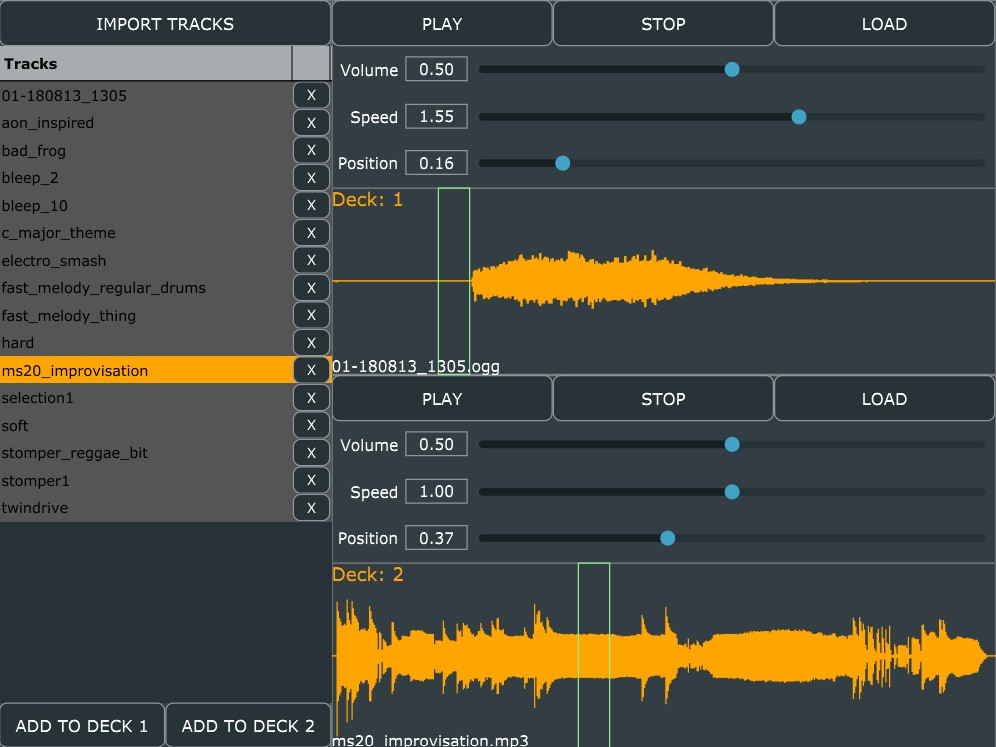
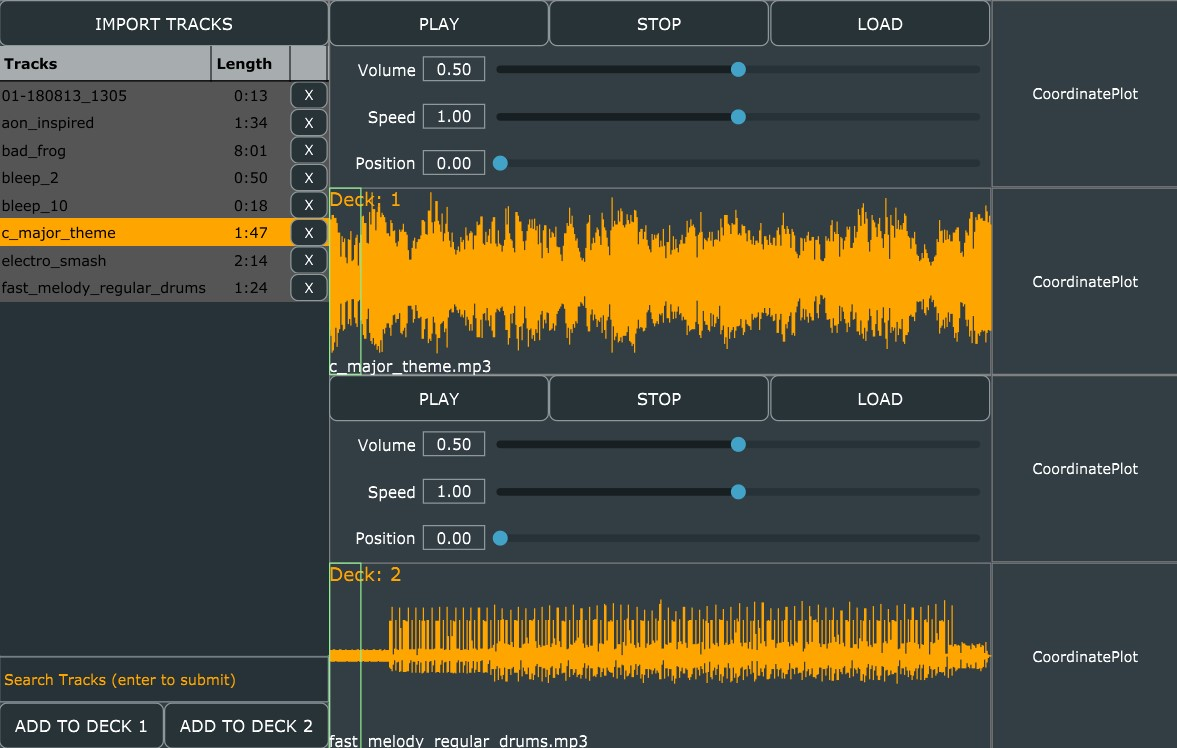
created CoordinatePlot class, added 2 as components to DeckGUI, and reformated UI layout for it

diff --git a/Source/DeckGUI.cpp b/Source/DeckGUI.cpp
@@ -23,24 +23,28 @@ DeckGUI::DeckGUI(int _id,
     // add all components and make visible
     addAndMakeVisible(playButton);
     addAndMakeVisible(stopButton);
+    addAndMakeVisible(loadButton);
     addAndMakeVisible(volSlider);
     addAndMakeVisible(volLabel);
     addAndMakeVisible(speedSlider);
     addAndMakeVisible(speedLabel);
     addAndMakeVisible(posSlider);
     addAndMakeVisible(posLabel);
-    addAndMakeVisible(reverbSlider);
+    //addAndMakeVisible(reverbSlider);
+    addAndMakeVisible(reverbPlot1);
+    addAndMakeVisible(reverbPlot2);
     addAndMakeVisible(waveformDisplay);
-    addAndMakeVisible(loadButton);
 
     // add listeners
     playButton.addListener(this);
     stopButton.addListener(this);
+    loadButton.addListener(this);
     volSlider.addListener(this);
     speedSlider.addListener(this);
     posSlider.addListener(this);
     reverbSlider.addListener(this);
-    loadButton.addListener(this);
+    //reverbPlot1.addListener(this);
+    //reverbPlot2.addListener(this);
 
     //configure volume slider and label
     double volDefaultValue = 0.5;
@@ -85,6 +89,10 @@ DeckGUI::DeckGUI(int _id,
     reverbSlider.setRange(0.0, 1.0);
     reverbSlider.setNumDecimalPlacesToDisplay(2);
 
+    //configure reverb plots
+    //reverbPlot1.setRange(0.0, 1.0);
+    //reverbPlot2.setRange(0.0, 1.0);
+
     startTimer(500);
 }
 
@@ -113,17 +121,20 @@ void DeckGUI::resized()
     // This method is where you should set the bounds of any child
     // components that your component contains..
     auto sliderLeft = getWidth() / 9;
+    auto mainRight = getWidth() - getHeight() / 2;
+    auto plotRight = getWidth() - mainRight; // should == getHeight() / 2
 
     //                   x start, y start, width, height
-    playButton.setBounds(0, 0, getWidth() / 3, getHeight() / 8);
-    stopButton.setBounds(getWidth() / 3, 0, getWidth() / 3, getHeight() / 8);
-    loadButton.setBounds(2 * getWidth() / 3, 0, getWidth() / 3, getHeight() / 8);
-    volSlider.setBounds(sliderLeft, getHeight() / 8, 3 * getWidth() / 3 - sliderLeft, getHeight() / 8);
-    speedSlider.setBounds(sliderLeft, 2 * getHeight() / 8, 3 * getWidth() / 3 - sliderLeft, getHeight() / 8);
-    posSlider.setBounds(sliderLeft, 3 * getHeight() / 8, 3 * getWidth() / 3 - sliderLeft, getHeight() / 8);
-    reverbSlider.setBounds(0, 4 * getHeight() / 8, getWidth(), getHeight() / 8);
-    waveformDisplay.setBounds(0, 5 * getHeight() / 8, getWidth(), 3 * getHeight() / 8);
-    //waveformDisplay.setBounds(0, 4 * getHeight() / 8, 3 * getWidth() / 3, 4 * getHeight() / 8);
+    playButton.setBounds(0, 0, mainRight / 3, getHeight() / 8);
+    stopButton.setBounds(mainRight / 3, 0, mainRight / 3, getHeight() / 8);
+    loadButton.setBounds(2 * mainRight / 3, 0, mainRight / 3, getHeight() / 8);
+    volSlider.setBounds(sliderLeft, getHeight() / 8, mainRight - sliderLeft, getHeight() / 8);
+    speedSlider.setBounds(sliderLeft, 2 * getHeight() / 8, mainRight - sliderLeft, getHeight() / 8);
+    posSlider.setBounds(sliderLeft, 3 * getHeight() / 8, mainRight - sliderLeft, getHeight() / 8);
+    //reverbSlider.setBounds(0, 4 * getHeight() / 8, mainRight, getHeight() / 8);
+    reverbPlot1.setBounds(mainRight, 0, plotRight, getHeight() / 2);
+    reverbPlot2.setBounds(mainRight, getHeight()/2, plotRight, getHeight() / 2);
+    waveformDisplay.setBounds(0, 4 * getHeight() / 8, mainRight, 4 * getHeight() / 8);
 }
 
 void DeckGUI::buttonClicked(juce::Button* button)
@@ -166,11 +177,11 @@ void DeckGUI::sliderValueChanged(juce::Slider* slider)
         DBG("Position slider moved " << slider->getValue());
         player->setPositionRelative(slider->getValue());
     }
-    if (slider == &reverbSlider)
-    {
-        DBG("Reverb slider moved " << slider->getValue());
-        player->setRoomSize(slider->getValue());
-    }
+    //if (slider == &reverbSlider)
+    //{
+    //    DBG("Reverb slider moved " << slider->getValue());
+    //    player->setRoomSize(slider->getValue());
+    //}
 }
 
 bool DeckGUI::isInterestedInFileDrag(const juce::StringArray& files)

diff --git a/Source/MainComponent.cpp b/Source/MainComponent.cpp
@@ -5,7 +5,7 @@ MainComponent::MainComponent()
 {
     // Make sure you set the size of the component after
     // you add any child components.
-    setSize (800, 600);
+    setSize (944, 600);
 
     // Some platforms require permissions to open input channels so request that here
     if (juce::RuntimePermissions::isRequired (juce::RuntimePermissions::recordAudio)
@@ -82,10 +82,16 @@ void MainComponent::resized()
     // If you add any child components, this is where you should
     // update their positions.
 
-    auto columnWidth = getWidth() / 3;
-    auto rowHeight = getHeight() / 2;
+    //playlistComponent.setBounds(0, 0, getWidth() / 3, getHeight());
+    //deckGUI1.setBounds(getWidth() / 3, 0, 2 * getWidth() / 3, getHeight() / 2);
+    //deckGUI2.setBounds(getWidth() / 3, getHeight() / 2, 2 * getWidth() / 3, getHeight() / 2);
+    int columns = 100;
+    auto playlistRight = 28 * getWidth() / columns;
+    playlistComponent.setBounds(0, 0, playlistRight, getHeight());
+    deckGUI1.setBounds(playlistRight, 0, getWidth() - playlistRight, getHeight() / 2);
+    deckGUI2.setBounds(playlistRight, getHeight() / 2, getWidth() - playlistRight, getHeight() / 2);
 
-    playlistComponent.setBounds(0, 0, columnWidth, 2 * rowHeight);
-    deckGUI1.setBounds(columnWidth, 0, 2 * columnWidth, rowHeight);
-    deckGUI2.setBounds(columnWidth, rowHeight, 2 * columnWidth, rowHeight);
+    //getWidth() - getWidth() / columns - getHeight() / 4
+    //deckGUI1.setBounds(playlistRight, 0, getWidth() - playlistRight - getHeight() / 4, getHeight() / 2);
+    //deckGUI2.setBounds(playlistRight, getHeight() / 2, getWidth() - playlistRight - getHeight() / 4, getHeight() / 2);
 }

diff --git a/Source/DeckGUI.h b/Source/DeckGUI.h
@@ -13,7 +13,7 @@
 #include <JuceHeader.h>
 #include "DJAudioPlayer.h"
 #include "WaveformDisplay.h"
-//#include "PlaylistComponent.h"
+#include "CoordinatePlot.h"
 
 //==============================================================================
 /*
@@ -50,6 +50,7 @@ private:
     
     juce::TextButton playButton{ "PLAY" };
     juce::TextButton stopButton{ "STOP" };
+    juce::TextButton loadButton{ "LOAD" };
     juce::Slider volSlider;
     juce::Label volLabel;
     juce::Slider speedSlider;
@@ -57,7 +58,8 @@ private:
     juce::Slider posSlider;
     juce::Label posLabel;
     juce::Slider reverbSlider;
-    juce::TextButton loadButton{ "LOAD" };
+    CoordinatePlot reverbPlot1;
+    CoordinatePlot reverbPlot2;
 
     void loadFile(juce::URL audioURL);
 

diff --git a/Source/PlaylistComponent.cpp b/Source/PlaylistComponent.cpp
@@ -23,8 +23,8 @@ PlaylistComponent::PlaylistComponent(DeckGUI* _deckGUI1,
     // initialise any special settings that your component needs.
 
     // library table configuration
-    library.getHeader().addColumn("Tracks", 1, 171);
-    library.getHeader().addColumn("Length", 2, 65);
+    library.getHeader().addColumn("Tracks", 1, 170);
+    library.getHeader().addColumn("Length", 2, 63);
     library.getHeader().addColumn("", 3, 30);
     library.setModel(this);
     
